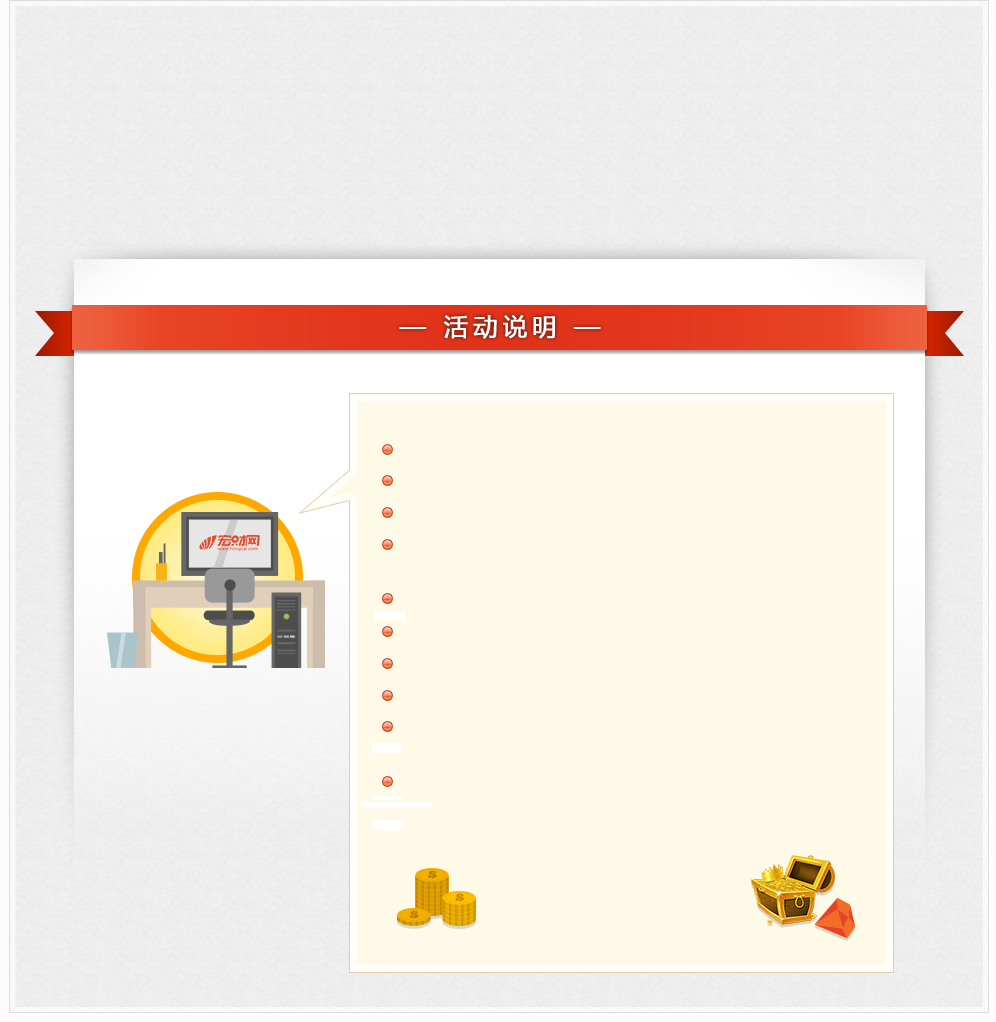
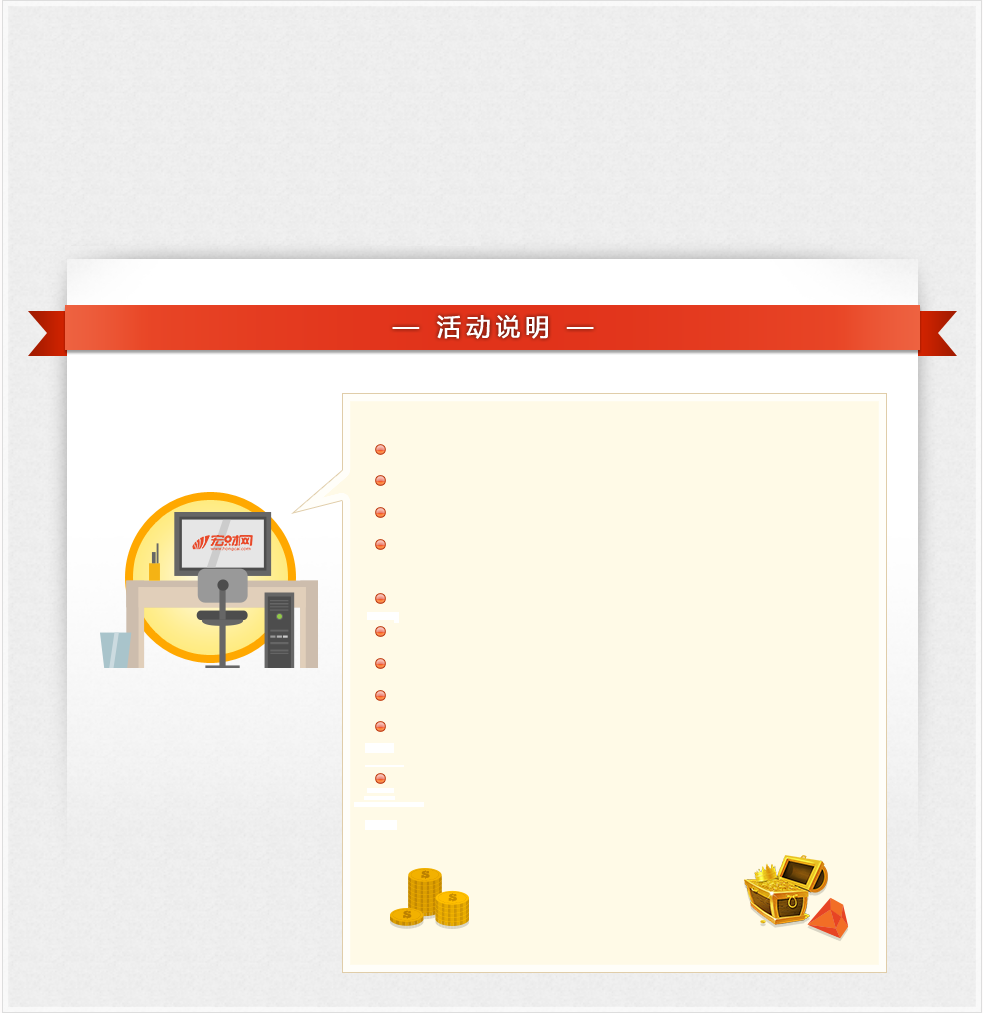
宏包抽奖界面修改

diff --git a/app/styles/lucky_draw.less b/app/styles/lucky_draw.less
@@ -1,23 +1,13 @@
-html,body{
-    margin: 0;
-    padding: 0;
-    color: #333;
-    text-rendering: optimizelegibility;
-    _background-attachment: fixed;
-    _background-image: url(about:blank);
-    font-family: Helvetica, Tahoma, Arial, "Hiragino Sans GB", "冬青黑体", "Microsoft YaHei", "微软雅黑", "WenQuanYi Micro Hei", SimSun, "宋体", Heiti, "黑体", sans-serif;
-}
 .lucky-draw{
 .ab{
   position: absolute;
 }
 .main{
-  margin-top: 10px;
   width: 980px;
   height: 1050px;
   position: relative;
-  margin: 0 auto;
-  background: url(/images/get_lucky.png) -9px 10px no-repeat;
+  margin: 20px auto 0;
+  background: url(/images/get_lucky.png) -2px 0 no-repeat;
 }
 .get-lucky{
   height: 160px;
@@ -44,18 +34,19 @@ html,body{
   top: 258px;
 }
 .tips-area{
+  border: 0px solid #dbdbdb; 
   font-size: 14px;
   height: 500px;
   width: 380px;
-  top: 447px;
-  left: 400px;
+  top: 439px;
+  left: 390px;
 }
 .tips-area p{
   margin-bottom: 10px;
   line-height: 22px;
   font-weight: bold;
-  margin-top: 0px;
-  height: 30px;
+  margin: 0px;
+  height: 32px;
   padding: 0;
 }
 .get-rule-inline,.get-rule-inline:hover{
@@ -93,6 +84,7 @@ html,body{
   width: 100%;
   z-index: 2;
   font-size: 14px;
+  border: 0px solid #dbdbdb;
 }
 .get-bg{
   background: url(/images/lucky_sprite.png) -567px 32px no-repeat;
@@ -113,5 +105,8 @@ html,body{
   top: 140px;
   right: 205px;
   color: #a1a0a0;
+}
+.tips-area:hover{
+  background-color: inherit;
 }
 }

diff --git a/app/views/activity/lucky-draw.html b/app/views/activity/lucky-draw.html
@@ -31,12 +31,15 @@
     <p>参与对象：宏财网注册用户</p>
     <p>每个用户每天仅能抽取一次，每日0:00后可以再次抽取</p>
     <p>获得10,000元宏包的用户推荐投入 <a href="javascript:;" class="get-rule-inline">土豪标</a>；获得100元宏包的<br>用户推荐投资 <a href="javascript:;" class="get-rule-inline">理财项目</a></p>
+    <br>
     <p>宏包不可转赠他人使用，且不能与其他优惠同享</p>
     <p>万元宏包每人仅能抽中1次，百元宏包可多次抽取</p>
     <p>万元宏包将在每100人中产生1名</p>
     <p>万元宏包共30名，百元宏包不限数量</p>
-    <p>宏包为虚拟体验金，不可提现，不可转账 。宏包使用规则请查看“<a href="javascript:;" class="get-rule-inline">宏包使用规则</a>”</p>
+    <p>宏包为虚拟体验金，不可提现，不可转账 。宏包使用规则请<br>查看“<a href="javascript:;" class="get-rule-inline">宏包使用规则</a>”</p>
+    <br>
     <p>在法律允许的范围内，宏财网拥有对本活动的解释权</p>
+
     <a href="javascript:;" class="get-rule ab">宏包使用规则</a>
   </div>
 </div>
